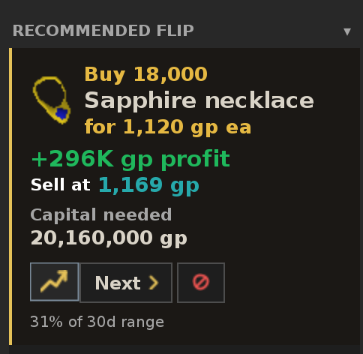
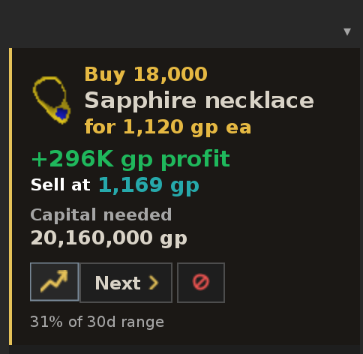
Drop the box's own name, and spend cash before selling stock
"RECOMMENDED FLIP" and "SELL FROM YOUR BANK" named the box rather than
saying anything about the idea inside it, and which box you are looking
at is not in doubt while you are looking at it. Both are gone; the header
keeps only its collapse chevron. YOUR OFFER and WATCHING stay, because
those are the box being taken over by something else — without them a
watchlist item you clicked reads as a recommendation the plugin made.

The one fact the sell title carried, that the stack is already yours,
moved onto the card as a grey "from your bank" under the instruction,
which is where the rest of the idea already is.

Buys now come before bank sells. Deploying cash you are already holding
starts a flip; selling stock only finishes one you are in. Leading with
"sell from your bank" while money sits idle and a slot is free answers a
question nobody asked.

No condition on that ordering, because it does not need one: with no free
slot the adjust nudges already take the headline, and with no cash the
capital planner produces no buys — so in exactly the cases where selling
IS the right first move, there is nothing queued in front of it. Sells
are still BUILT before the buys, so recommendedIds can be seeded with
their item ids and a buy is not proposed for something already queued as
a sell; only their position in the list changed.

Claude-Session: https://claude.ai/code/session_01CrbbnpxzzXajkmFNwfAgTw

Changed region(s): [[0.0303, 0.0621, 0.5455, 0.1243]]

diff --git a/src/main/java/com/pocketge/tracker/AdvisorPanel.java b/src/main/java/com/pocketge/tracker/AdvisorPanel.java
@@ -1233,15 +1233,21 @@ public class AdvisorPanel extends PluginPanel
 		   recommendation is not news. */
 		announceShownRecommendation(offerOwnsBox || selectedFavorite != null
 			? null : (recommendations.isEmpty() ? null : recommendations.get(recIndex)));
-		/* Say which KIND of idea this is, in the header that is already there
-		   and costs nothing.
-		   "RECOMMENDED FLIP" over "Target sell — 28,600 @ 1,660" left the most
-		   useful fact off the card: those 28,600 are ones you ALREADY OWN. It
-		   read identically to a flip being proposed from scratch, so the
-		   honest question it invited was "is this just from my bank?" — and
-		   the answer, unsaid, was yes. A buy idea and a stack you are sitting
-		   on are different enough decisions that the box should not use one
-		   word for both. */
+		/*
+		 * Only the states where the box is showing something OTHER than a
+		 * recommendation get a title.
+		 *
+		 * "RECOMMENDED FLIP" and "SELL FROM YOUR BANK" both named the box
+		 * rather than saying anything about the idea in it — and this box is
+		 * the recommendation area, which is not in doubt when you are looking
+		 * at it. The one fact the sell title carried, that the stack is
+		 * already yours, moved onto the card itself where the rest of the
+		 * idea is.
+		 *
+		 * YOUR OFFER and WATCHING stay, because those genuinely are the box
+		 * being taken over by something else: without them a watchlist item
+		 * you clicked reads as a recommendation the plugin made.
+		 */
 		final String title;
 		if (offerOwnsBox)
 		{
@@ -1251,14 +1257,9 @@ public class AdvisorPanel extends PluginPanel
 		{
 			title = "WATCHING";
 		}
-		else if (!recommendations.isEmpty() && recommendations.get(recIndex) != null
-			&& recommendations.get(recIndex).sell)
-		{
-			title = "SELL FROM YOUR BANK";
-		}
 		else
 		{
-			title = "RECOMMENDED FLIP";
+			title = "";
 		}
 		recommendationWrap.add(collapsibleSection(title, null, recommendationOpen,
 			() -> { recommendationOpen = !recommendationOpen; renderRecommendation(); }, body), BorderLayout.NORTH);
@@ -1298,6 +1299,7 @@ public class AdvisorPanel extends PluginPanel
 		c.actionLead = (r.sell ? "Sell " : "Buy ") + String.format("%,d", r.quantity);
 		c.actionTrail = "for " + String.format("%,d", r.unitPrice) + " gp ea";
 		c.actionColor = r.sell ? SELL_COLOR : BUY_COLOR;
+		c.provenance = r.sell ? "from your bank" : null;
 		/* What it cost is the other half of the decision on a held stack, so
 		   it stays. The "-14 gp/item margin at today's spread" line that used
 		   to appear instead on an untracked stack is gone: a NEGATIVE margin
@@ -1710,6 +1712,9 @@ public class AdvisorPanel extends PluginPanel
 		 */
 		String actionLead;
 		String actionTrail;
+		/** Where the goods are, under the instruction — "from your bank" on
+		 *  a sell. Null on a buy, which is not from anywhere yet. */
+		String provenance;
 		/** Muted second line: what it cost, the target pair, no-margin. */
 		String subText;
 		Long profitValue;
@@ -1815,6 +1820,17 @@ public class AdvisorPanel extends PluginPanel
 			if (c.actionTrail != null)
 			{
 				stack.add(actionLine(c.actionTrail, lineFg));
+			}
+			if (c.provenance != null)
+			{
+				/* What the "SELL FROM YOUR BANK" header used to say, now on the
+				   card with the rest of the idea. Small and grey: it is context
+				   for the instruction above, not part of it. */
+				final JLabel from = new JLabel(c.provenance);
+				from.setForeground(ColorScheme.LIGHT_GRAY_COLOR);
+				from.setFont(from.getFont().deriveFont(10f));
+				from.setAlignmentX(0f);
+				stack.add(from);
 			}
 			row1.add(stack, BorderLayout.CENTER);
 		}

diff --git a/src/main/java/com/pocketge/tracker/PocketGeTrackerPlugin.java b/src/main/java/com/pocketge/tracker/PocketGeTrackerPlugin.java
@@ -1461,9 +1461,29 @@ public class PocketGeTrackerPlugin extends Plugin
 					recommendations.add(rec);
 				}
 			}
+			/*
+			 * Sells are built now but APPENDED LAST, after the buys below.
+			 *
+			 * Deploying cash you are already holding beats liquidating stock
+			 * to raise more of it: the buy is the move that starts a flip,
+			 * the sell only finishes one you are already in. Leading with
+			 * "sell from your bank" while there is money sitting idle and a
+			 * free slot to spend it in answers a question nobody asked.
+			 *
+			 * It needs no condition. With no free slot the adjust nudges
+			 * above already take the headline, and with no cash the capital
+			 * planner produces no buys — so in exactly the cases where
+			 * selling IS the right first move, there is nothing in front of
+			 * it anyway.
+			 *
+			 * Built here rather than after the buys so recommendedIds can
+			 * still be seeded with their item ids, which is what stops a buy
+			 * being proposed for something already queued as a sell.
+			 */
+			final List<AdvisorPanel.Rec> sellRecs = new ArrayList<>();
 			for (Advisor.Suggestion sell : sellRows)
 			{
-				if (recommendations.size() >= MAX_RECOMMENDATIONS)
+				if (recommendations.size() + sellRecs.size() >= MAX_RECOMMENDATIONS)
 				{
 					break; // sellCandidates is unbounded — it walks every holding
 				}
@@ -1494,10 +1514,14 @@ public class PocketGeTrackerPlugin extends Plugin
 					rec.unitMargin = sq.high - sq.low - FlipTracker.taxPerItem(sq.high, sell.itemId);
 				}
 				rec.note = sell.reason;
-				recommendations.add(rec);
+				sellRecs.add(rec);
 			}
 			final Set<Integer> recommendedIds = new HashSet<>();
 			for (AdvisorPanel.Rec r : recommendations)
+			{
+				recommendedIds.add(r.itemId);
+			}
+			for (AdvisorPanel.Rec r : sellRecs)
 			{
 				recommendedIds.add(r.itemId);
 			}
@@ -1577,6 +1601,17 @@ public class PocketGeTrackerPlugin extends Plugin
 				rec.exitPrice = exitPriceFor(quotes, buy.itemId);
 				rec.note = buy.reason;
 				recommendations.add(rec);
+			}
+			/* And now the bank, behind everything that spends cash. Capped
+			   the same way, so a big bank cannot push the buys off the end of
+			   the list it is queued behind. */
+			for (AdvisorPanel.Rec sellRec : sellRecs)
+			{
+				if (recommendations.size() >= MAX_RECOMMENDATIONS)
+				{
+					break;
+				}
+				recommendations.add(sellRec);
 			}
 
 			// Green/red border on each GE offer box: every active offer starts

diff --git a/README.md b/README.md
@@ -10,7 +10,7 @@ away on [pocketge.com](https://pocketge.com).
 
 Free. No account. Works in free-to-play.
 
-![The PocketGE sidebar: a Recommended Flip card showing Sapphire necklace at 18,000 @ 1,120 gp with the capital it ties up, the eight GE slot squares colour-coded by state, a watchlist with 5-day high and low badges, and the session stats underneath.](./docs/screenshots/sidebar.png)
+![The PocketGE sidebar: a flip card showing Sapphire necklace at 18,000 @ 1,120 gp with the capital it ties up, the eight GE slot squares colour-coded by state, a watchlist with 5-day high and low badges, and the session stats underneath.](./docs/screenshots/sidebar.png)
 
 ---
 
@@ -48,11 +48,13 @@ too busy for you, there's a switch to turn them all off.
 
 ### Flip ideas, ranked and actually affordable
 
-![The Recommended Flip card, reading as an instruction: Buy 18,000 / Sapphire necklace / for 1,120 gp ea, then 296K gp profit, sell at 1,169 gp, capital needed 20,160,000 gp.](./docs/screenshots/part-card.png)
+![The flip card, reading as an instruction: Buy 18,000 / Sapphire necklace / for 1,120 gp ea, then 296K gp profit, sell at 1,169 gp, capital needed 20,160,000 gp.](./docs/screenshots/part-card.png)
 
 The headline card shows one idea at a time: what to buy or sell, at what
 price, how many, **the capital it ties up**, and the profit if it fills, after
-tax. Buys are sized against three real limits at once — the cash you're
+tax. Buying comes first while you have cash and a free slot — spending money
+you are already holding starts a flip, where selling only finishes one — and a
+stack out of your own bank says so on the card. Buys are sized against three real limits at once — the cash you're
 holding, the 4-hour buy limit, and a slice of what the item genuinely trades
 in a day, so it never proposes moving more than the market will absorb.
 
